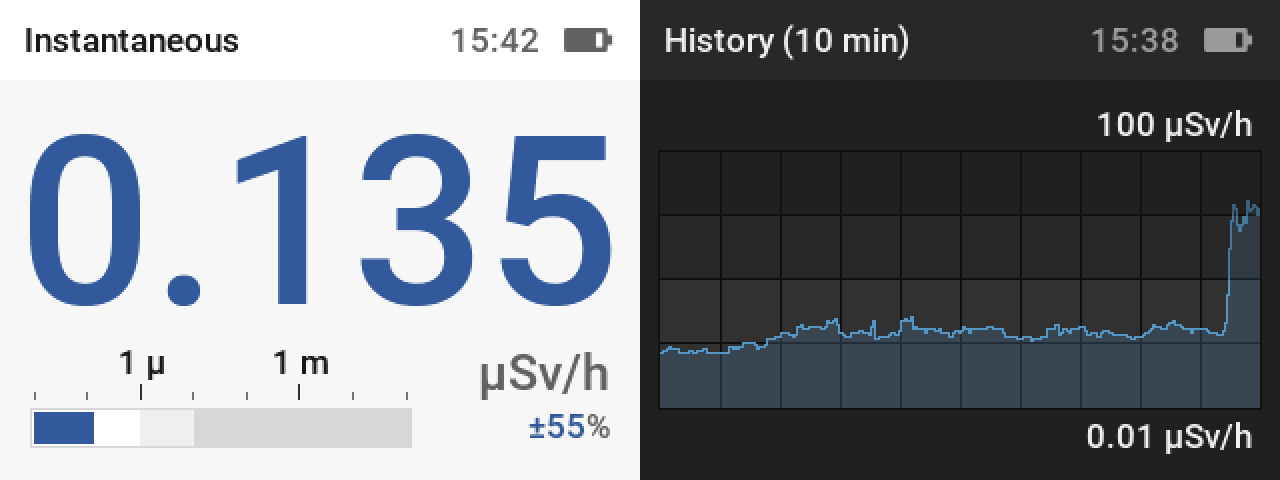
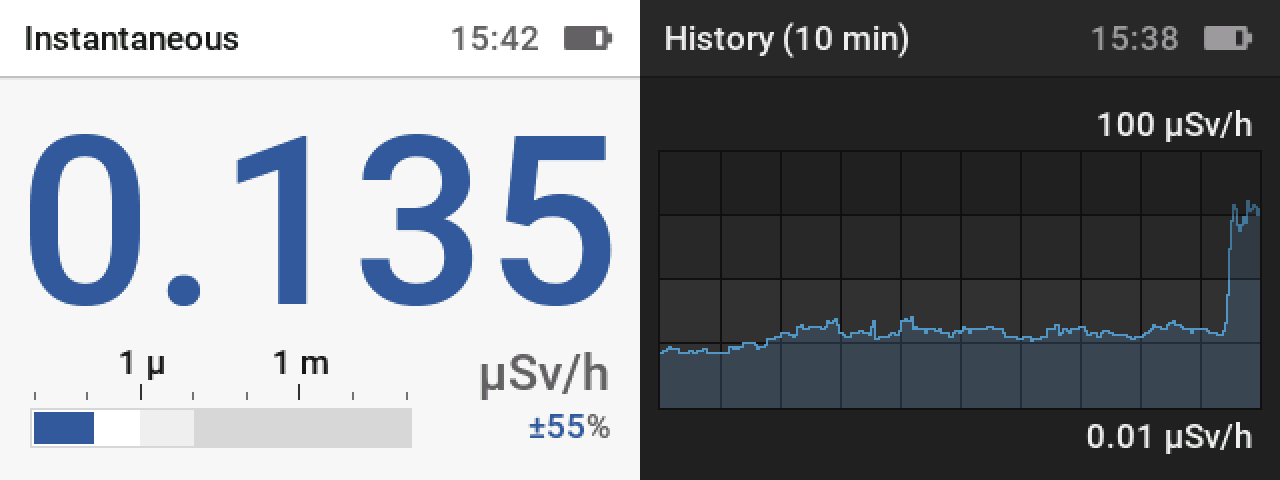
2.0.2

diff --git a/platform.io/src/measurements.c b/platform.io/src/measurements.c
@@ -20,9 +20,8 @@
 #include "system.h"
 #include "tube.h"
 
-#define AVERAGING_PERIOD_TIME_CONSTANT 20.0F
-#define AVERAGING_PERIOD_TIME_MIN 5.0F
-#define AVERAGING_PERIOD_TIME_MAX 300.0F
+// For 50% configence interval:
+#define AVERAGING_PULSE_COUNT 20
 
 #define ALERTZONE1_USVH 1.0E-6F
 #define ALERTZONE2_USVH 1.0E-5F
@@ -130,7 +129,6 @@ static struct
 
         Rate rate;
         float maxValue;
-        float averagingPeriod;
     } instantaneous;
 
     uint32_t instantaneousTabIndex;
@@ -164,6 +162,9 @@ static struct
 
     int32_t viewIndex;
 } measurements;
+
+uint8_t instantaneousAveragingPeriods[] = {
+    0, 5, 60, 30, 10};
 
 static const int32_t averagingTimes[] = {
     30 * 24 * 60 * 60, // Off (actually 30 days)
@@ -268,34 +269,6 @@ static float getDeadTimeCompensationFactor(float value)
 
         return 1.0F / denominator;
     }
-}
-
-uint8_t instantaneousAveragingPeriods[] = {
-    60, 30, 10};
-
-static uint32_t getInstantaneousAveragingPeriod(float value)
-{
-    if (settings.tubeInstantaneousAveraging >=
-        TUBE_INSTANTANEOUSAVERAGING_60SECONDS)
-        return instantaneousAveragingPeriods[settings.tubeInstantaneousAveraging -
-                                             TUBE_INSTANTANEOUSAVERAGING_60SECONDS];
-
-    float averagingPeriod;
-    if (value < (AVERAGING_PERIOD_TIME_CONSTANT / AVERAGING_PERIOD_TIME_MAX))
-        averagingPeriod = AVERAGING_PERIOD_TIME_MAX;
-    else if (value > AVERAGING_PERIOD_TIME_CONSTANT)
-        averagingPeriod = 1;
-    else
-        averagingPeriod = AVERAGING_PERIOD_TIME_CONSTANT / value;
-
-    if (settings.tubeInstantaneousAveraging ==
-             TUBE_INSTANTANEOUSAVERAGING_ADAPTIVEPRECISION)
-    {
-        if (averagingPeriod < AVERAGING_PERIOD_TIME_MIN)
-            averagingPeriod = AVERAGING_PERIOD_TIME_MIN;
-    }
-
-    return (uint32_t)(averagingPeriod + 0.999F);
 }
 
 static void calculateRate(uint32_t pulseCount, uint32_t ticks, Rate *rate)
@@ -444,8 +417,13 @@ void updateMeasurements(void)
 
     measurements.instantaneous.rate.time = 0;
 
-    measurements.instantaneous.averagingPeriod =
-        getInstantaneousAveragingPeriod(measurements.instantaneous.rate.value);
+    uint32_t averagingPeriod =
+        instantaneousAveragingPeriods[settings.tubeInstantaneousAveraging];
+    uint32_t averagingPulseCount =
+        (settings.tubeInstantaneousAveraging <=
+         TUBE_INSTANTANEOUSAVERAGING_ADAPTIVEPRECISION)
+            ? AVERAGING_PULSE_COUNT
+            : 0;
 
     uint32_t queueSize = (measurements.instantaneous.queueTail -
                           measurements.instantaneous.queueHead) &
@@ -461,12 +439,16 @@ void updateMeasurements(void)
              measurements.instantaneous.queue[queueIndex].firstPulseTick) /
                 SYSTICK_FREQUENCY;
 
-        if (timePeriod > measurements.instantaneous.averagingPeriod)
+        if (timePeriod > averagingPeriod)
         {
-            measurements.instantaneous.queueHead =
-                (queueIndex + 1) & INSTANTANEOUS_RATE_QUEUE_MASK;
+            if (instantaneousMeasurement.pulseCount >=
+                averagingPulseCount)
+            {
+                measurements.instantaneous.queueHead =
+                    (queueIndex + 1) & INSTANTANEOUS_RATE_QUEUE_MASK;
 
-            break;
+                break;
+            }
         }
 
         instantaneousMeasurement.firstPulseTick =
@@ -691,7 +673,7 @@ static bool isInstantaneousRateAlarm(void)
     if (!settings.rateAlarm)
         return false;
 
-    // Disable alarm if confidence is above 75 %
+    // Disable alarm if confidence is above 75%
     if (measurements.instantaneous.rate.confidence >= 0.75)
         return false;
 
@@ -760,7 +742,7 @@ static void onInstantaneousRateViewEvent(const View *view,
             style = MEASUREMENTSTYLE_NORMAL;
         }
 
-        drawTitleBar("Instantaneous");
+        drawTitleBar("Instantaneous", false);
         drawMeasurementValue(valueString,
                              unitString,
                              measurements.instantaneous.rate.confidence,
@@ -923,7 +905,7 @@ static void onAverageRateViewEvent(const View *view,
             style = MEASUREMENTSTYLE_NORMAL;
         }
 
-        drawTitleBar("Average");
+        drawTitleBar("Average", false);
         drawMeasurementValue(valueString,
                              unitString,
                              measurements.average.timerRate.confidence,
@@ -1110,7 +1092,7 @@ static void onCumulativeDoseViewEvent(const View *view,
             style = MEASUREMENTSTYLE_NORMAL;
         }
 
-        drawTitleBar("Cumulative");
+        drawTitleBar("Cumulative", false);
         drawMeasurementValue(valueString,
                              unitString,
                              0,
@@ -1238,7 +1220,7 @@ static void onHistoryViewEvent(const View *view, Event event)
             data[i] = historyState->buffer[dataIndex];
         }
 
-        drawTitleBar(histories[measurements.history.tabIndex].name);
+        drawTitleBar(histories[measurements.history.tabIndex].name, false);
         drawHistory(rateUnit->scale,
                     rateUnit->name,
                     histories[measurements.history.tabIndex].timeTickNum,
@@ -1448,8 +1430,8 @@ const View doseAlarmMenuView = {
 // Pulse thresholding menu
 
 static const char *onPulseThresholdingMenuGetOption(const Menu *menu,
-                                                  uint32_t index,
-                                                  MenuStyle *menuStyle)
+                                                    uint32_t index,
+                                                    MenuStyle *menuStyle)
 {
     *menuStyle = (index == settings.pulseThresholding);
 

diff --git a/platform.io/src/display.c b/platform.io/src/display.c
@@ -132,6 +132,7 @@
 #define TITLEBAR_BATTERY_WIDTH 15
 #define TITLEBAR_BATTERY_OFFSET_X 0
 #define TITLEBAR_BATTERY_OFFSET_Y 1
+#define TITLEBAR_SHADOW_HEIGHT 0
 
 #define MENU_LINE_HEIGHT 14
 #define MENU_SUBMENU_WIDTH 5
@@ -176,12 +177,13 @@
 
 #define CONTENT_PADDING 12
 
-#define TITLEBAR_HEIGHT 40
+#define TITLEBAR_HEIGHT 38
 #define TITLEBAR_CLOCK_WIDTH 57
 #define TITLEBAR_CLOCK_OFFSET_X 0
 #define TITLEBAR_BATTERY_WIDTH 38
 #define TITLEBAR_BATTERY_OFFSET_X 1
 #define TITLEBAR_BATTERY_OFFSET_Y ((TITLEBAR_HEIGHT - 30) / 2)
+#define TITLEBAR_SHADOW_HEIGHT 2
 
 #define MENU_LINE_HEIGHT 50
 #define MENU_SUBMENU_WIDTH 12
@@ -226,12 +228,13 @@
 
 #define CONTENT_PADDING 12
 
-#define TITLEBAR_HEIGHT 40
+#define TITLEBAR_HEIGHT 38
 #define TITLEBAR_CLOCK_WIDTH 57
 #define TITLEBAR_CLOCK_OFFSET_X 0
 #define TITLEBAR_BATTERY_WIDTH 38
 #define TITLEBAR_BATTERY_OFFSET_X 1
 #define TITLEBAR_BATTERY_OFFSET_Y ((TITLEBAR_HEIGHT - 30) / 2)
+#define TITLEBAR_SHADOW_HEIGHT 2
 
 #define MENU_LINE_HEIGHT 46
 #define MENU_SUBMENU_WIDTH 12
@@ -277,7 +280,7 @@
 #define TITLEBAR_X 0
 #define TITLEBAR_Y 0
 #define TITLEBAR_WIDTH DISPLAY_WIDTH
-#define TITLEBAR_BOTTOM (TITLEBAR_Y + TITLEBAR_HEIGHT)
+#define TITLEBAR_BOTTOM (TITLEBAR_Y + TITLEBAR_HEIGHT + TITLEBAR_SHADOW_HEIGHT)
 #define TITLEBAR_TEXT_OFFSET_Y ((TITLEBAR_HEIGHT - FONT_SMALL_LINE_HEIGHT) / 2)
 #define TITLEBAR_TITLE_X 0
 #define TITLEBAR_TITLE_OFFSET_X CONTENT_PADDING
@@ -487,6 +490,10 @@ typedef enum
 
     COLOR_CONTAINER_BACKGROUND,
     COLOR_CONTAINER_GLOBAL,
+    COLOR_CONTAINER_GLOBAL_SHADOW1,
+    COLOR_CONTAINER_GLOBAL_SHADOW2,
+    COLOR_CONTAINER_GLOBAL_SHADOW1_MENU,
+    COLOR_CONTAINER_GLOBAL_SHADOW2_MENU,
 
     COLOR_INSTRUMENT_ENHANCED_PRIMARY,
     COLOR_INSTRUMENT_ENHANCED_TERTIARY_OVER_PRIMARY,
@@ -550,6 +557,26 @@ static const mr_color_t displayColors[][3] = {
     {mr_get_color(0xfcfdfc), // 0xfcfcfc
      mr_get_color(0x262726), // 0x262626
      mr_get_color(0x0a0a00)},
+
+    // Container global shadow 1
+    {mr_get_color(0xd0d0d0),
+     mr_get_color(0x181818),
+     mr_get_color(0x000000)},
+
+    // Container global shadow 2
+    {mr_get_color(0xe8e8e8),
+     mr_get_color(0x1f1f1f),
+     mr_get_color(0x000000)},
+
+    // Container global shadow 1 menu
+    {mr_get_color(0xd0d0d0),
+     mr_get_color(0x202020),
+     mr_get_color(0x000000)},
+
+    // Container global shadow 2 menu
+    {mr_get_color(0xe8e8e8),
+     mr_get_color(0x282828),
+     mr_get_color(0x000000)},
 
     // Instrument enhanced primary
     {mr_get_color(0x325b9a),
@@ -617,7 +644,7 @@ static const mr_color_t displayColors[][3] = {
      mr_get_color(0x111902)},
 
     // Instrument frame primary alert zone 2
-    {mr_get_color(0xd9d8d9),  // 0xd9d9d9
+    {mr_get_color(0xd9d8d9), // 0xd9d9d9
      mr_get_color(0x212121),
      mr_get_color(0x060700)}, // 0x060600
 
@@ -647,9 +674,9 @@ static const mr_color_t displayColors[][3] = {
      mr_get_color(0x000000)},
 
     // Flat checked background (on container global) [menu selected background]
-    {mr_get_color(0xd6dde9),  // Changed alpha to 20 %
-     mr_get_color(0x324563),  // Changed alpha to 50 %
-     mr_get_color(0x00230f)}, // Changed alpha to 50 %
+    {mr_get_color(0xd6dde9),  // Changed alpha to 20%
+     mr_get_color(0x324563),  // Changed alpha to 50%
+     mr_get_color(0x00230f)}, // Changed alpha to 50%
 
     // On flat active (on container global) [menu selected foreground]
     {mr_get_color(0x161718),
@@ -925,7 +952,8 @@ static void drawRightAlignedText(const char *str,
              &rightAlignedOffset);
 }
 
-void drawTitleBar(const char *title)
+void drawTitleBar(const char *title,
+                  bool isMenu)
 {
     setFillColor(COLOR_CONTAINER_GLOBAL);
 
@@ -988,6 +1016,25 @@ void drawTitleBar(const char *title)
     drawRightAlignedText(buffer,
                          &rectangle,
                          &offset);
+
+// Shadow
+#if (TITLEBAR_SHADOW_HEIGHT > 0)
+    rectangle.x = TITLEBAR_TITLE_X;
+    rectangle.y = TITLEBAR_BOTTOM - 2;
+    rectangle.width = TITLEBAR_WIDTH;
+    rectangle.height = 1;
+
+    setFillColor(!isMenu
+                     ? COLOR_CONTAINER_GLOBAL_SHADOW1
+                     : COLOR_CONTAINER_GLOBAL_SHADOW1_MENU);
+    drawRectangle(&rectangle);
+
+    rectangle.y++;
+    setFillColor(!isMenu
+                     ? COLOR_CONTAINER_GLOBAL_SHADOW2
+                     : COLOR_CONTAINER_GLOBAL_SHADOW2_MENU);
+    drawRectangle(&rectangle);
+#endif
 
     // Set background
     setFillColor(COLOR_CONTAINER_BACKGROUND);
@@ -1086,7 +1133,7 @@ void drawLowBattery(void)
 
 void drawMenu(const Menu *menu)
 {
-    drawTitleBar(menu->title);
+    drawTitleBar(menu->title, true);
 
     setFont(FONT_MEDIUM);
 
@@ -1865,7 +1912,7 @@ void drawRNG(const char *title,
              const char *rngString,
              const char *stateString)
 {
-    drawTitleBar(title);
+    drawTitleBar(title, false);
 
     // RNG string
     const mr_rectangle_t rngDataRectangle = {
@@ -1904,7 +1951,7 @@ void drawRNG(const char *title,
 
 void drawStatistics(void)
 {
-    drawTitleBar("Statistics");
+    drawTitleBar("Statistics", false);
 
     setFont(FONT_SMALL);
 
@@ -2050,7 +2097,7 @@ void drawGame(const uint8_t board[8][8],
     mr_point_t offset;
 
 #if defined(DISPLAY_COLOR)
-    drawTitleBar("Game");
+    drawTitleBar("Game", false);
 #endif
 
     // Board

diff --git a/platform.io/src/display.h b/platform.io/src/display.h
@@ -72,7 +72,8 @@ void updateDisplayContrast(void);
 
 void refreshDisplay(void);
 
-void drawTitleBar(const char *title);
+void drawTitleBar(const char *title,
+                  bool isMenu);
 void drawNotification(const char *title,
                       const char *subtitle);
 void drawMenu(const Menu *menu);

diff --git a/platform.io/src/system.h b/platform.io/src/system.h
@@ -16,7 +16,7 @@
 
 #define FIRMWARE_AUTHOR "Gissio"
 #define FIRMWARE_NAME "Rad Pro"
-#define FIRMWARE_VERSION "2.0.2beta1"
+#define FIRMWARE_VERSION "2.0.2"
 
 extern const View statisticsView;
 

diff --git a/RELEASES.md b/RELEASES.md
@@ -4,6 +4,7 @@
 
 * Simplified the instantaneous rate averaging response curves, resulting in improved precision when using J613/J614 tubes.
 * Disabled instantaneous rate alarms in situations where the confidence interval is high, such as immediately after device startup.
+* Minor UI improvements.
 
 ## 2.0.1
 
@@ -20,7 +21,7 @@
 * Updated the UI design system to [OpenBridge 5.0](https://www.openbridge.no/), improving legibility under sunlight.
 * Changed the default conversion factor for J613/J614 tubes to 30.0 cpm/µSv/h.
 * Removed the FNIRSI GC-01 display panel settings.
-* Increased the granularity and range of the "SET tubeHVFrequency" and "SET tubeHVDutyCycle" data communication requests to CPU clock resolution and 100 Hz-100 kHz and 0 %-100 %, respectively (not stored on power-off).
+* Increased the granularity and range of the "SET tubeHVFrequency" and "SET tubeHVDutyCycle" data communication requests to CPU clock resolution and 100 Hz-100 kHz and 0%-100%, respectively (not stored on power-off).
 
 ## 2.0rc5 The final countdown
 

diff --git a/docs/tubes/SBM-20.md b/docs/tubes/SBM-20.md
@@ -36,7 +36,7 @@ Thickness: 0.05 mm
 * Operating voltage range: 350 V - 475 V
 * Initial voltage: 260 V - 320 V
 * Plateau length: at least 100 V
-* Maximum plateau slope: 0.1 %/V
+* Maximum plateau slope: 0.1%/V
 * Minimum dead time: 190 µs (@ 400 V)
 * Working range: 0.004 µR/s (40 µR/s)
 * Working range: 0.014 mR/h (144 mR/h)

diff --git a/docs/tubes/HH614.md b/docs/tubes/HH614.md
@@ -16,7 +16,7 @@ Technical specifications:
 * Starting voltage: 280 V - 350 V
 * Minimum floor length: 100 V
 * Operating voltage range: 400 - 500 V
-* Plateau slope: ≤ 0.3 %/V
+* Plateau slope: ≤ 0.3%/V
 * Recommended operating voltage: 420 V
 * Maximum voltage: 550 V
 

diff --git a/docs/tubes/J305.md b/docs/tubes/J305.md
@@ -10,7 +10,7 @@
 
 * Starting voltage: < 350 V
 * Working Voltage: 360 V - 440 V
-* Min. plateau slope: 12.5 % / 100 V
+* Min. plateau slope: 12.5% / 100 V
 * Recommended operating voltage: 380 V
 
 * Gamma sensitivity (Co-60): 44 mR/h (4.4 cps/μGy/h)
